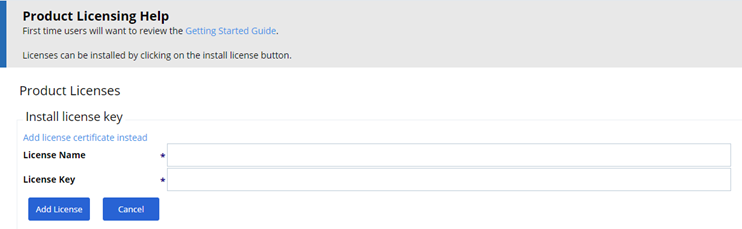
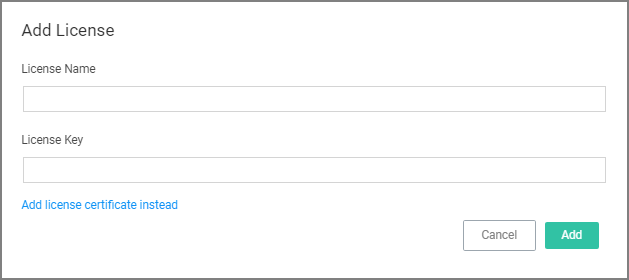
#184930: license page new UI

Changed region(s): [[0.0, 0.0, 1.0, 1.0]]

diff --git a/getting-started/licenses.md b/getting-started/licenses.md
@@ -24,14 +24,18 @@ To install licenses without Secret Server:
 
 1. Navigate to __Admin | Licenses__ or __click__ the Product Licenses Installed link in the top banner.
 
-   ![Navigate to Licensing Page](images/license/nav-to-licensing.png)
+   ![license page](images/license/nav-to-licensing.png "Navigate to Licensing Page")
 
-1. On the Privilege Manager Licenses page, click __Add License__, then 
-   1. enter your License Name(s) and 
-   1. Key(s) one at a time, 
-   1. select Add License to finish.
+1. On the Privilege Manager Licenses page, click __Add License__, then either
+   * enter your License Name(s) and Key(s) one at a time: 
 
-   ![Enter licenses and keys](images/license/enter-lic.png)
+     ![enter keys](images/license/enter-lic.png "Enter licenses and keys")
+
+     or
+   * use the __Add license certificate instead__ option.
+
+     ![enter cert](images/license/enter-lic-cert.png "Enter license certificate")
+1. Click __Add__.
 
 ### Steps for Combined Secret Server + Privilege Manager Installation
 
@@ -39,7 +43,7 @@ To install licenses with Secret Server on the same server as Privilege Manager, 
 
 1. To access Secret Server’s licensing page, either click the Secret Server link listed in the banner at the top of the Privilege Manager Licenses page or navigate to __Admin | Setup – Licenses__.
 1. From Secret Server’s License page, select Install New License.
-1. Enter your License Names and Keys individually or through the Bulk Entry Mode. 
+1. Enter your License Names and Keys individually or through the Bulk Entry Mode.
 1. Click Save or Add Multiple Licenses to save the License Keys. Installing these licenses in Secret Server will automatically import the licenses into Privilege Manager.  
 1. Navigate back to the Privilege Manager License page to verify under:
    __Tools | Privilege Manager | Admin | Privilege Manager–Licenses__.
@@ -55,13 +59,15 @@ If you previously had evaluation licenses and recently purchased, you will need 
 
 When your Privilege Manager licenses expire or have exceeded the licensed count, Privilege Manager will stop processing new inventory and application control events. Endpoints will continue to enforce policies.
 
+In your Installed Licenses list use the __Delete__ option to remove expired or old licenses that are not in use anymore.
+
+![confirm delete](images/license/delete.png "Confirm to delete the selected license")
+
 ## Client vs. Server Licenses
 
 * __Client License__: This license provides coverage for endpoints that are workstations, such as Windows 10, windows 7, etc.
 * __Server License__: This license provides coverage for endpoints that are server machines, Windows Server 2019, Windows 2016, etc.
 * __Support License__: Without having a support license you will not be able to complete upgrades and will not be able to receive support or maintenance.
-
-![Product Licenses](images/license/licenses.png)
 
 ### When a license has expired or have exceeded the license count
 
